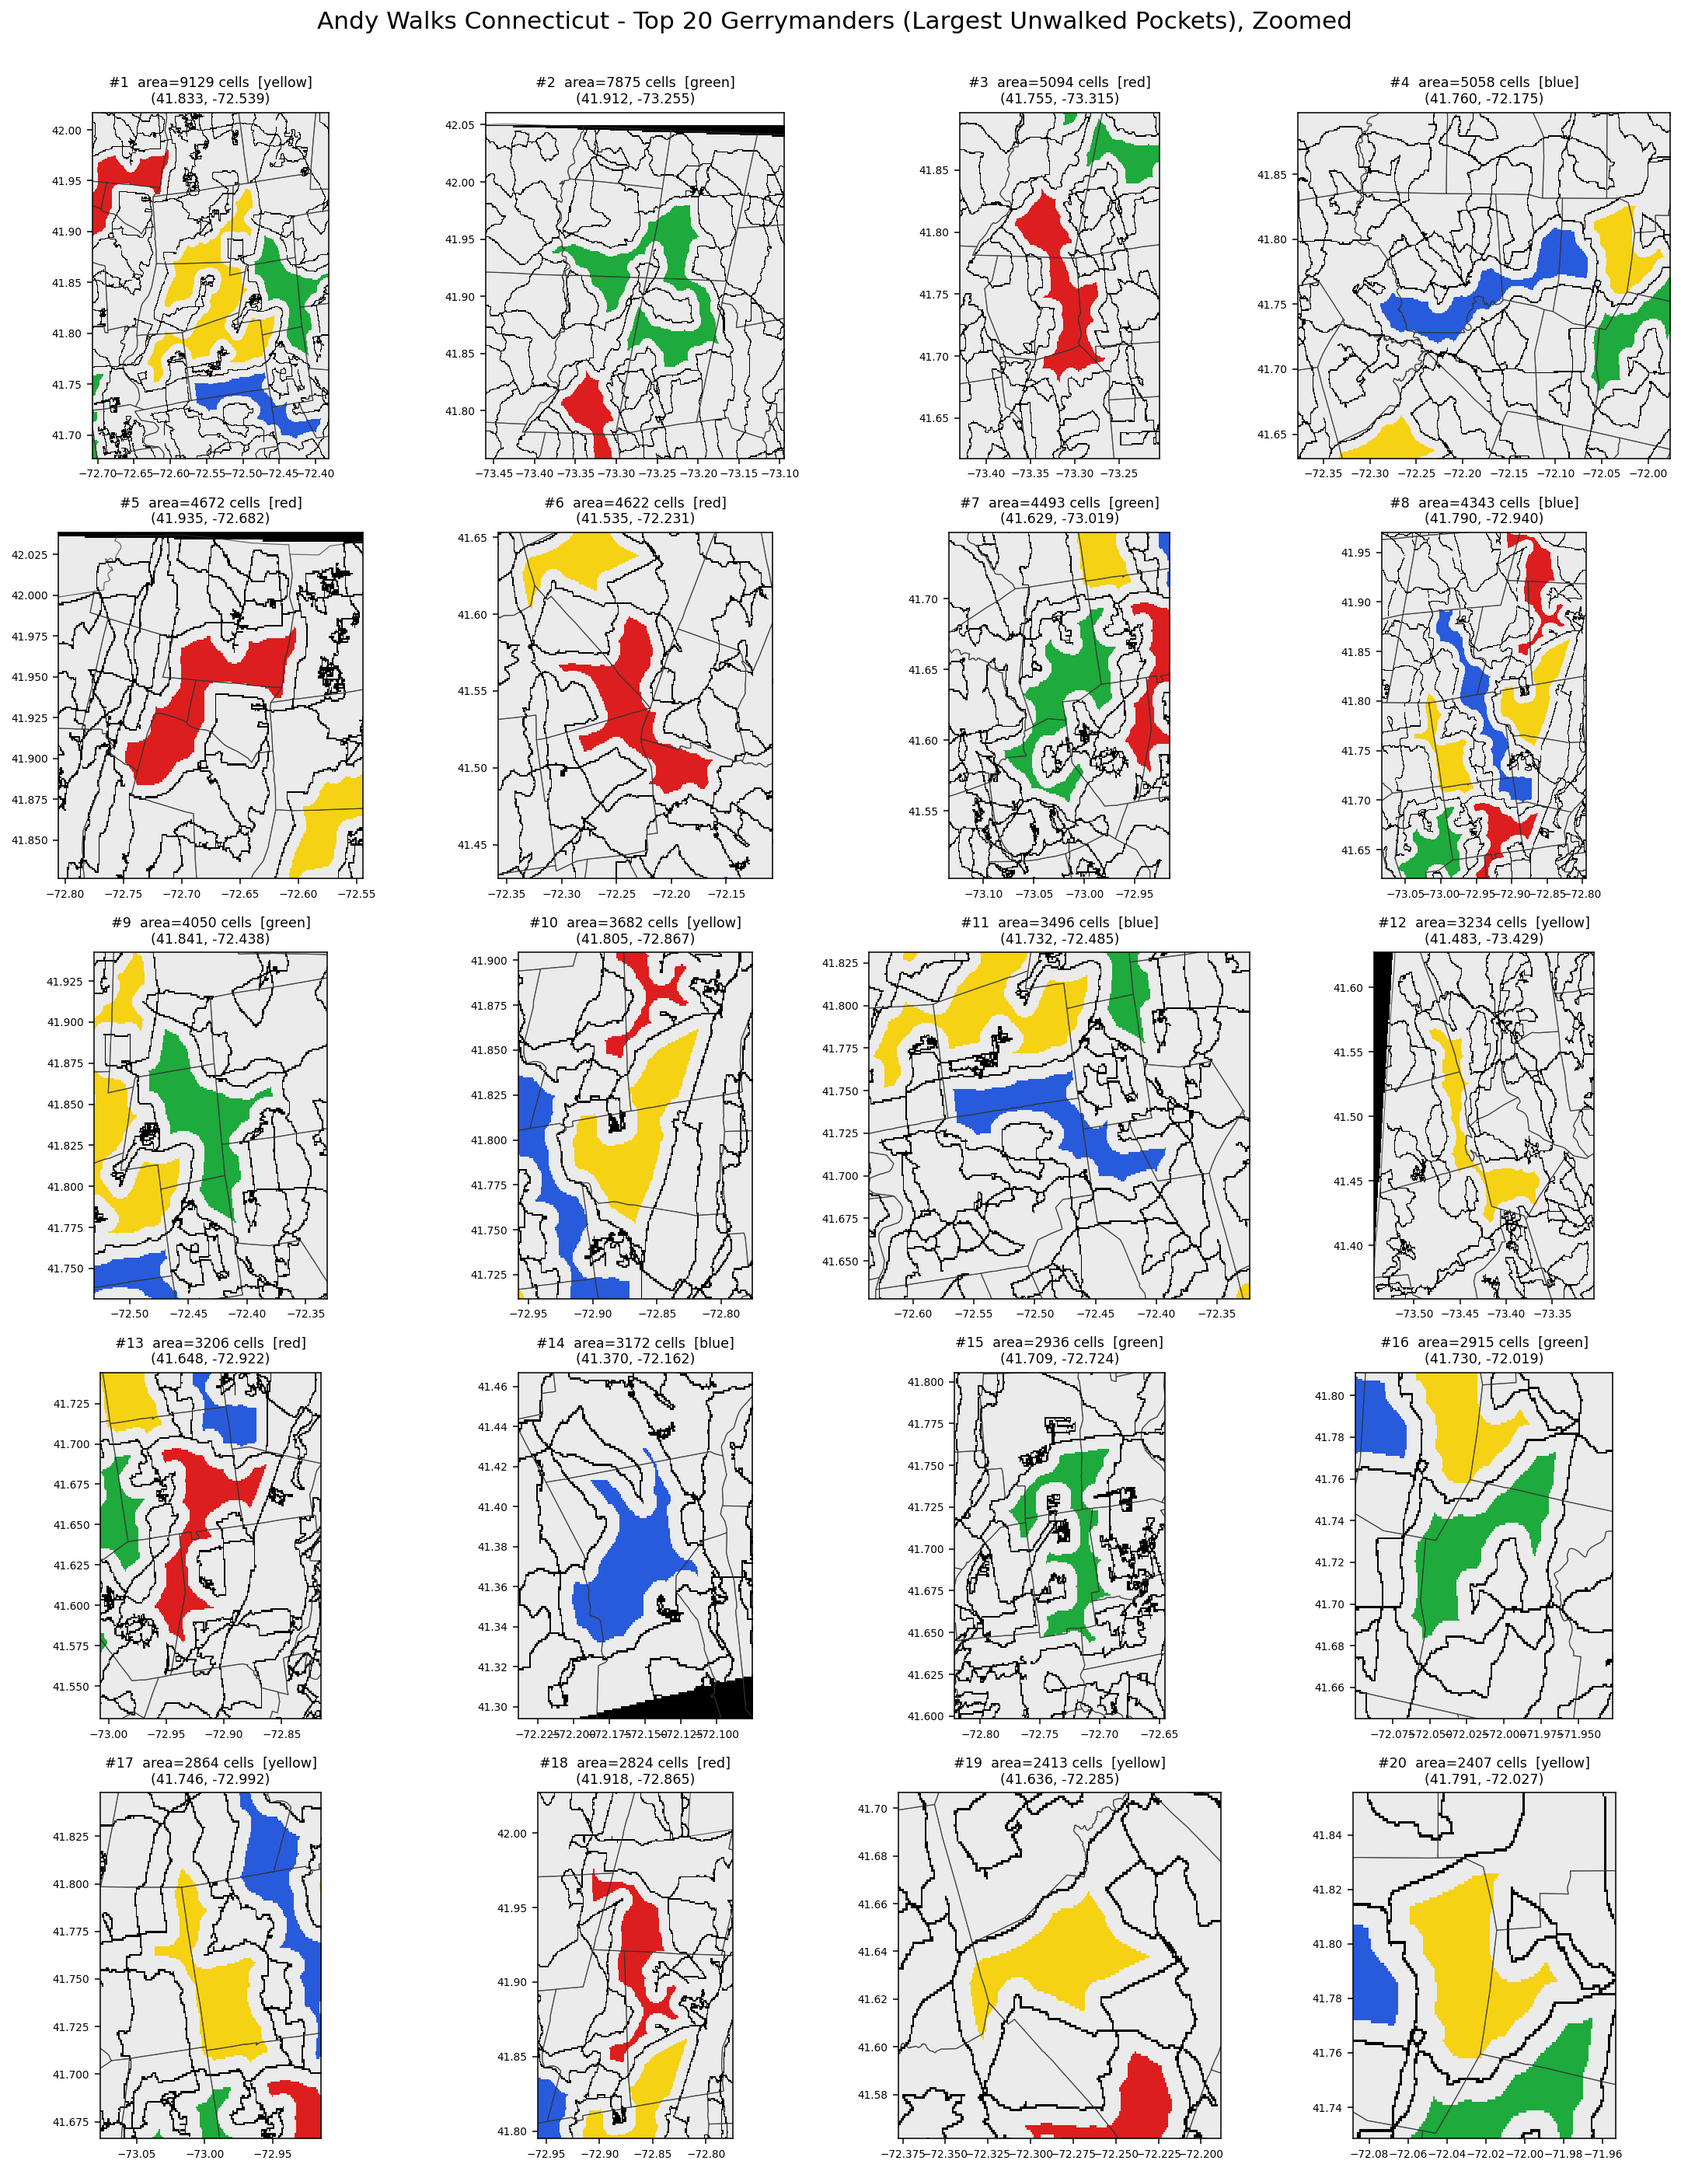
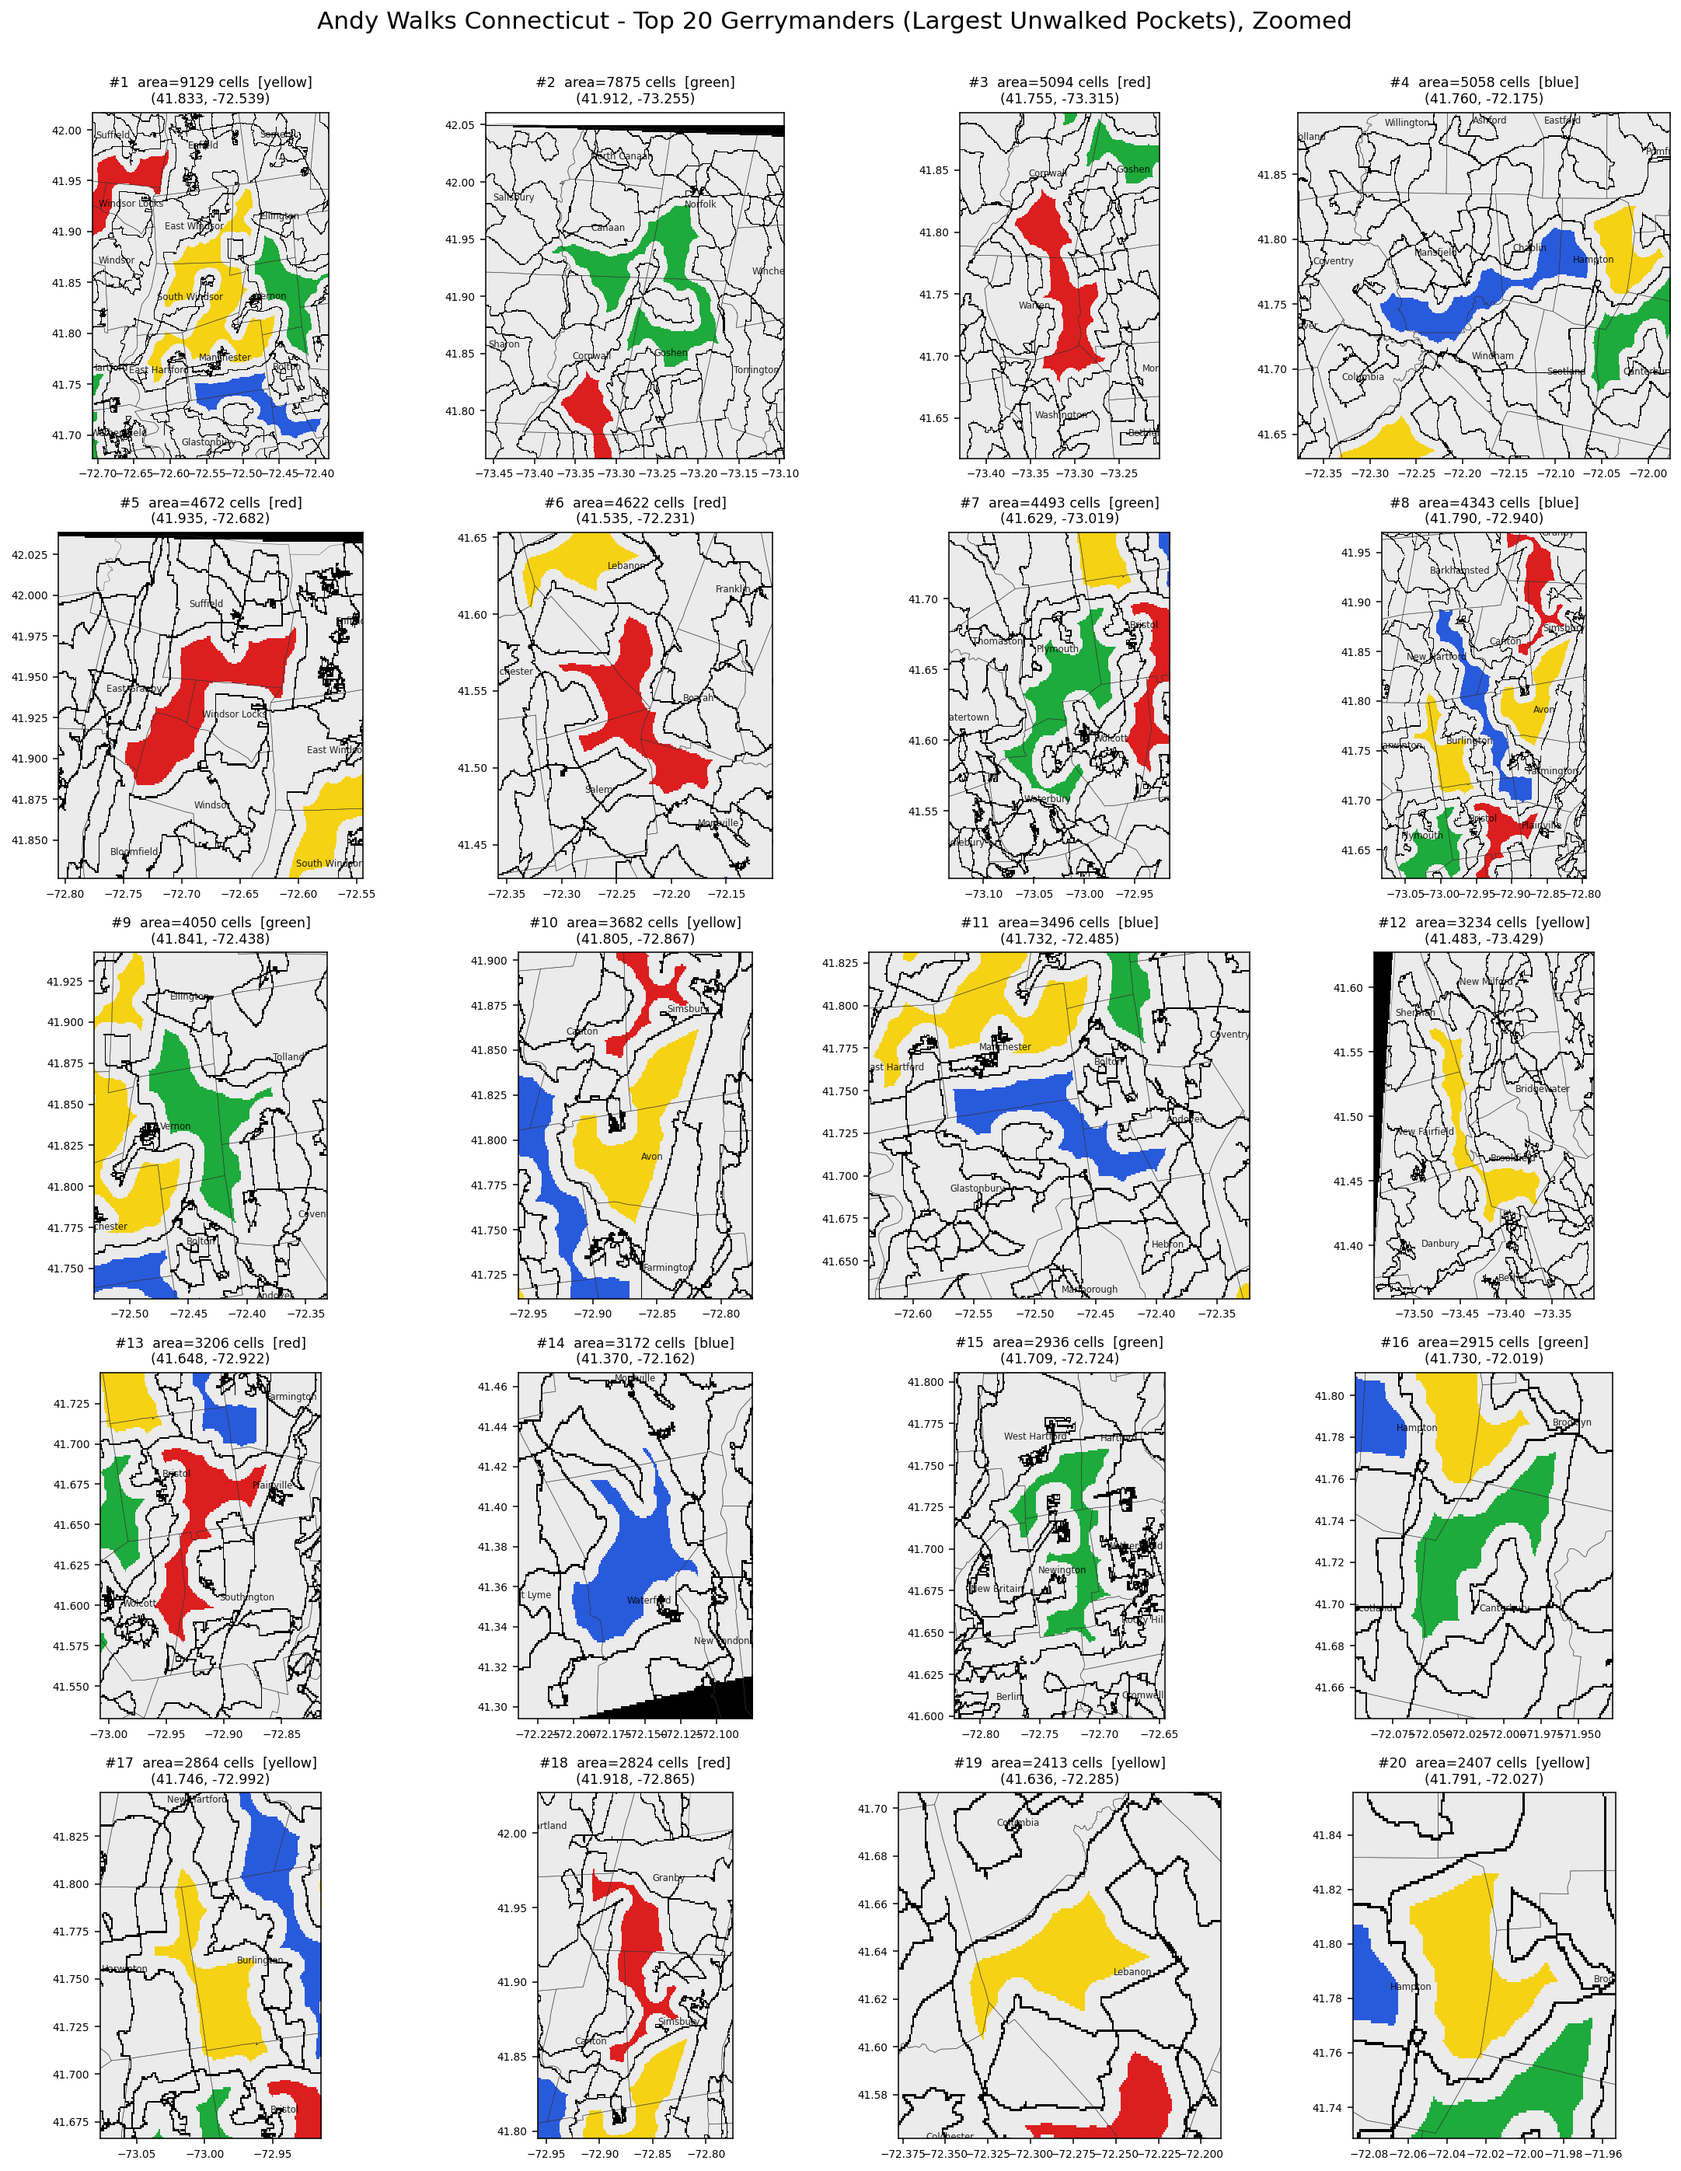
Add town names and thin boundaries on gerrymander maps
Both gerrymander maps now label towns and use thinner town boundary lines.

- gerrymander_map.py: new shared load_town_labels() helper computes each
  town's area-weighted (shoelace) centroid from ct_towns.geojson. The full
  map labels all 169 towns and halves the boundary line width (0.5 -> 0.25).
- gerrymander_top20_zoom.py: labels the towns visible in each panel's view
  and halves its boundary line width (0.6 -> 0.3).

Region detection, ranking, and 4-coloring are unchanged (red 28 / green 24 /
blue 23 / yellow 25).

Regenerated: Gerrymander_Map.png, Gerrymander_Top20_Zoom.png

Files:
M  src/plotmap/Gerrymander_Map.png
M  src/plotmap/Gerrymander_Top20_Zoom.png
M  src/plotmap/gerrymander_map.py
M  src/plotmap/gerrymander_top20_zoom.py

Changed region(s): [[0.062, 0.0934, 0.0929, 0.1246]]

diff --git a/src/plotmap/gerrymander_map.py b/src/plotmap/gerrymander_map.py
@@ -201,6 +201,58 @@ def load_town_lines():
     return lines
 
 
+def _ring_centroid(ring):
+    """Area-weighted (shoelace) centroid of a polygon ring; falls back to the
+    vertex mean for degenerate rings."""
+    pts = np.asarray(ring, dtype=float)
+    if len(pts) < 3:
+        return pts[:, 0].mean(), pts[:, 1].mean()
+    x, y = pts[:, 0], pts[:, 1]
+    x1, y1 = np.roll(x, -1), np.roll(y, -1)
+    cross = x * y1 - x1 * y
+    area = cross.sum() / 2.0
+    if abs(area) < 1e-12:
+        return x.mean(), y.mean()
+    cx = ((x + x1) * cross).sum() / (6.0 * area)
+    cy = ((y + y1) * cross).sum() / (6.0 * area)
+    return cx, cy
+
+
+def load_town_labels():
+    """Return list of (name, lon, lat) at each CT town's centroid (its largest ring)."""
+    if not Path(TOWNS_GEOJSON).exists():
+        return []
+    with open(TOWNS_GEOJSON, "r") as f:
+        gj = json.load(f)
+    labels = []
+    for feature in gj.get("features", []):
+        name = feature.get("properties", {}).get("name")
+        geom = feature.get("geometry", {})
+        gtype = geom.get("type")
+        coords = geom.get("coordinates", [])
+        if not name or "not defined" in name.lower():
+            continue
+        if gtype == "Polygon":
+            polys = [coords]
+        elif gtype == "MultiPolygon":
+            polys = coords
+        else:
+            continue
+        # Use the exterior ring of the largest-perimeter polygon part.
+        best_ring, best_len = None, -1
+        for poly in polys:
+            if not poly:
+                continue
+            ring = poly[0]
+            if len(ring) > best_len:
+                best_ring, best_len = ring, len(ring)
+        if best_ring is None:
+            continue
+        cx, cy = _ring_centroid(best_ring)
+        labels.append((name, cx, cy))
+    return labels
+
+
 def main():
     dist_grid, present_grid, extent = load_grid()
     rows, cols = dist_grid.shape
@@ -227,7 +279,12 @@ def main():
 
     # Overlay town boundaries.
     for lons, lats in load_town_lines():
-        ax.plot(lons, lats, color="#333333", linewidth=0.5, alpha=0.7)
+        ax.plot(lons, lats, color="#333333", linewidth=0.25, alpha=0.7)
+
+    # Label each town at its centroid.
+    for name, lon_c, lat_c in load_town_labels():
+        ax.text(lon_c, lat_c, name, fontsize=4, ha="center", va="center",
+                color="black", alpha=0.85, clip_on=True)
 
     ax.set_xlim(lon_min, lon_max)
     ax.set_ylim(lat_min, lat_max)

diff --git a/src/plotmap/gerrymander_top20_zoom.py b/src/plotmap/gerrymander_top20_zoom.py
@@ -20,6 +20,7 @@ from gerrymander_map import (
     build_adjacency,
     color_gerrymanders,
     load_town_lines,
+    load_town_labels,
 )
 
 TOP_N = 20
@@ -48,6 +49,7 @@ def main():
     img = img[::-1]  # flip so north is up
 
     town_lines = load_town_lines()
+    town_labels = load_town_labels()
 
     fig, axes = plt.subplots(N_ROWS, N_COLS, figsize=(16, 20))
     axes = axes.ravel()
@@ -68,10 +70,18 @@ def main():
         pad = max(0.008, span * 0.4)
 
         for lons, lats in town_lines:
-            ax.plot(lons, lats, color="#333333", linewidth=0.6, alpha=0.75)
+            ax.plot(lons, lats, color="#333333", linewidth=0.3, alpha=0.75)
 
-        ax.set_xlim(r_lon_min - pad, r_lon_max + pad)
-        ax.set_ylim(r_lat_min - pad, r_lat_max + pad)
+        x_lo, x_hi = r_lon_min - pad, r_lon_max + pad
+        y_lo, y_hi = r_lat_min - pad, r_lat_max + pad
+        ax.set_xlim(x_lo, x_hi)
+        ax.set_ylim(y_lo, y_hi)
+
+        # Label towns whose centroid falls within this panel's view.
+        for name, lon_t, lat_t in town_labels:
+            if x_lo <= lon_t <= x_hi and y_lo <= lat_t <= y_hi:
+                ax.text(lon_t, lat_t, name, fontsize=6, ha="center", va="center",
+                        color="black", alpha=0.85, clip_on=True)
 
         lat_c = lat_min + r["row_center"] * GRID
         lon_c = lon_min + r["col_center"] * GRID
